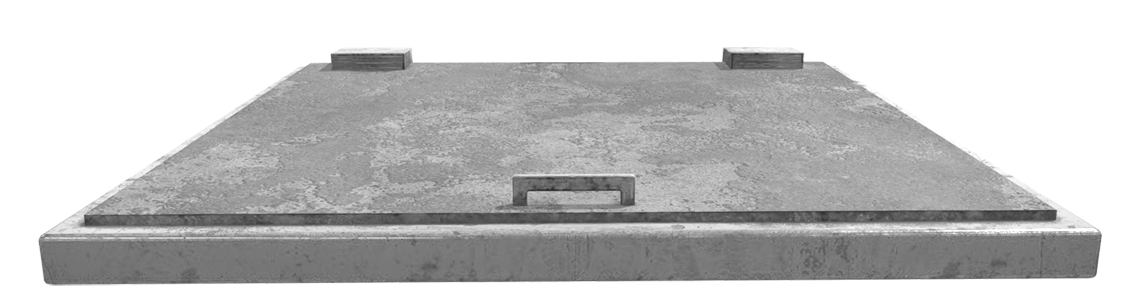
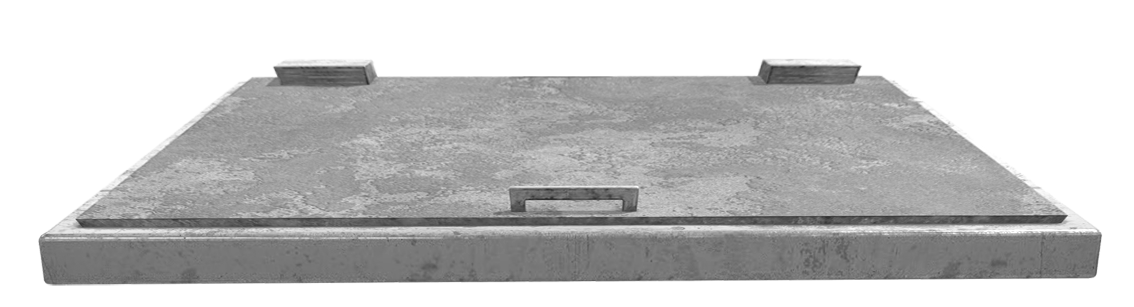
[ADD] ceiling variants for all floor hatches

diff --git a/src/assets/room_devices/floor_hatch_3/floor_hatch_3.asset.ts b/src/assets/room_devices/floor_hatch_3/floor_hatch_3.asset.ts
@@ -10,7 +10,24 @@ DefineRoomDeviceAsset({
 	staticAttributes: ['Floor'],
 	preview: 'preview.png',
 	slots: {},
-	modules: {},
+	modules: {
+		orientation: {
+			type: 'typed',
+			name: 'Orientation',
+			staticConfig: { slotName: null },
+			variants: [
+				{
+					id: 'floor',
+					name: 'Floor',
+					default: true,
+				},
+				{
+					id: 'ceiling',
+					name: 'Ceiling (needs manual height adjustment)',
+				},
+			],
+		},
+	},
 	pivot: {
 		x: 526,
 		y: 110,
@@ -20,6 +37,41 @@ DefineRoomDeviceAsset({
 			type: 'sprite',
 			image: 'floor_hatch_3.png',
 			colorizationKey: 'base',
+			imageOverrides: [
+				{
+					image: '',
+					condition: [
+						[
+							{
+								module: 'orientation',
+								operator: '=',
+								value: 'ceiling',
+							},
+						],
+					],
+				},
+			],
+		},
+		{
+			type: 'sprite',
+			image: 'floor_hatch_3_upside-down.png',
+			clipToRoom: true,
+			colorizationKey: 'base',
+			offset: { x: 0, y: -600 },
+			imageOverrides: [
+				{
+					image: '',
+					condition: [
+						[
+							{
+								module: 'orientation',
+								operator: '=',
+								value: 'floor',
+							},
+						],
+					],
+				},
+			],
 		},
 	],
 	ownership: {

diff --git a/src/assets/room_devices/floor_hatch_1/floor_hatch_1.asset.ts b/src/assets/room_devices/floor_hatch_1/floor_hatch_1.asset.ts
@@ -10,7 +10,24 @@ DefineRoomDeviceAsset({
 	staticAttributes: ['Floor'],
 	preview: 'preview.png',
 	slots: {},
-	modules: {},
+	modules: {
+		orientation: {
+			type: 'typed',
+			name: 'Orientation',
+			staticConfig: { slotName: null },
+			variants: [
+				{
+					id: 'floor',
+					name: 'Floor',
+					default: true,
+				},
+				{
+					id: 'ceiling',
+					name: 'Ceiling (needs manual height adjustment)',
+				},
+			],
+		},
+	},
 	pivot: {
 		x: 567,
 		y: 80,
@@ -20,6 +37,41 @@ DefineRoomDeviceAsset({
 			type: 'sprite',
 			image: 'floor_hatch_1.png',
 			colorizationKey: 'base',
+			imageOverrides: [
+				{
+					image: '',
+					condition: [
+						[
+							{
+								module: 'orientation',
+								operator: '=',
+								value: 'ceiling',
+							},
+						],
+					],
+				},
+			],
+		},
+		{
+			type: 'sprite',
+			image: 'floor_hatch_1_upside-down.png',
+			clipToRoom: true,
+			colorizationKey: 'base',
+			offset: { x: 0, y: -600 },
+			imageOverrides: [
+				{
+					image: '',
+					condition: [
+						[
+							{
+								module: 'orientation',
+								operator: '=',
+								value: 'floor',
+							},
+						],
+					],
+				},
+			],
 		},
 	],
 	ownership: {

diff --git a/src/assets/room_devices/floor_hatch_2/floor_hatch_2.asset.ts b/src/assets/room_devices/floor_hatch_2/floor_hatch_2.asset.ts
@@ -10,7 +10,24 @@ DefineRoomDeviceAsset({
 	staticAttributes: ['Floor'],
 	preview: 'preview.png',
 	slots: {},
-	modules: {},
+	modules: {
+		orientation: {
+			type: 'typed',
+			name: 'Orientation',
+			staticConfig: { slotName: null },
+			variants: [
+				{
+					id: 'floor',
+					name: 'Floor',
+					default: true,
+				},
+				{
+					id: 'ceiling',
+					name: 'Ceiling (needs manual height adjustment)',
+				},
+			],
+		},
+	},
 	pivot: {
 		x: 513,
 		y: 80,
@@ -20,6 +37,41 @@ DefineRoomDeviceAsset({
 			type: 'sprite',
 			image: 'floor_hatch_2.png',
 			colorizationKey: 'base',
+			imageOverrides: [
+				{
+					image: '',
+					condition: [
+						[
+							{
+								module: 'orientation',
+								operator: '=',
+								value: 'ceiling',
+							},
+						],
+					],
+				},
+			],
+		},
+		{
+			type: 'sprite',
+			image: 'floor_hatch_2_upside-down.png',
+			clipToRoom: true,
+			colorizationKey: 'base',
+			offset: { x: 0, y: -600 },
+			imageOverrides: [
+				{
+					image: '',
+					condition: [
+						[
+							{
+								module: 'orientation',
+								operator: '=',
+								value: 'floor',
+							},
+						],
+					],
+				},
+			],
 		},
 	],
 	ownership: {
